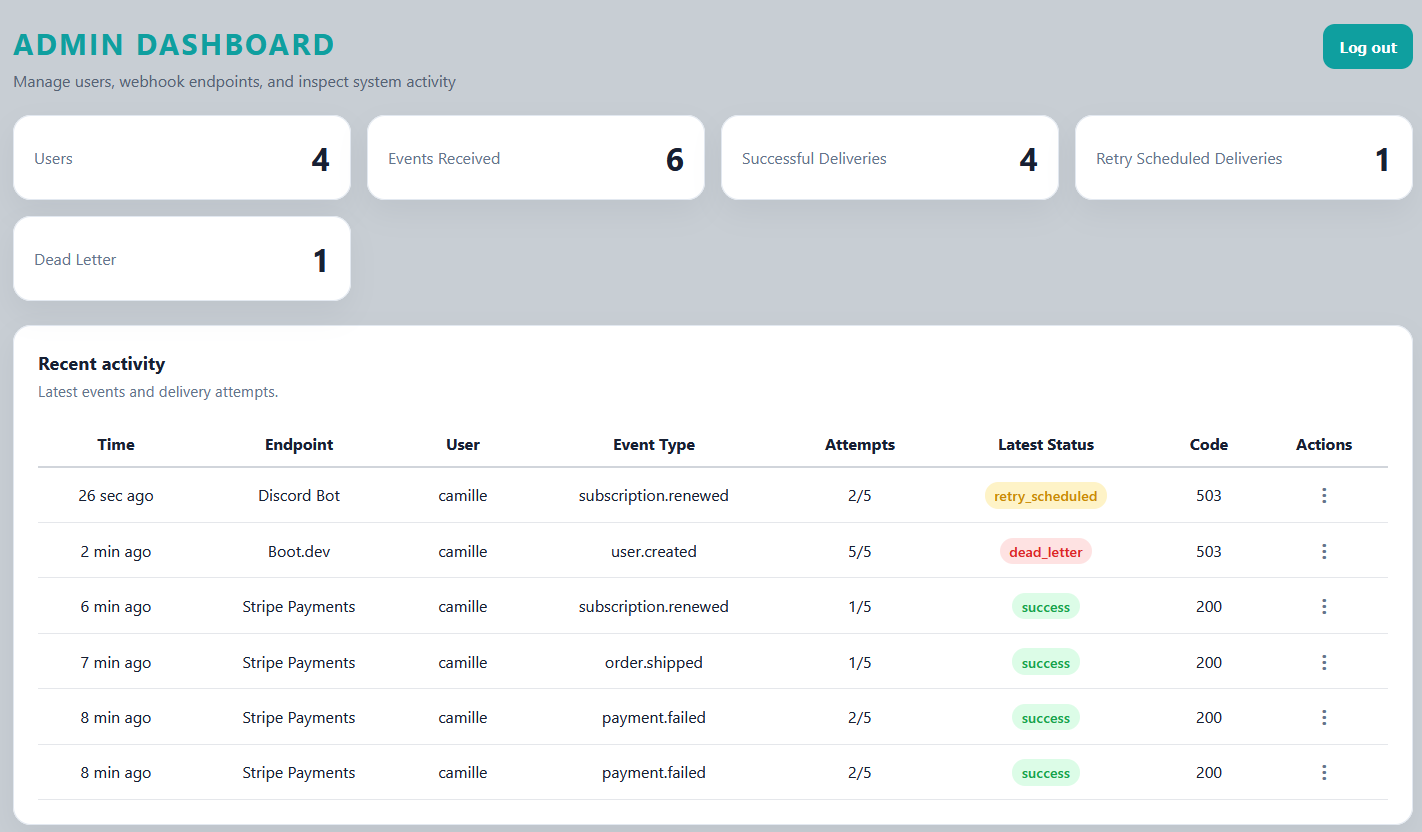
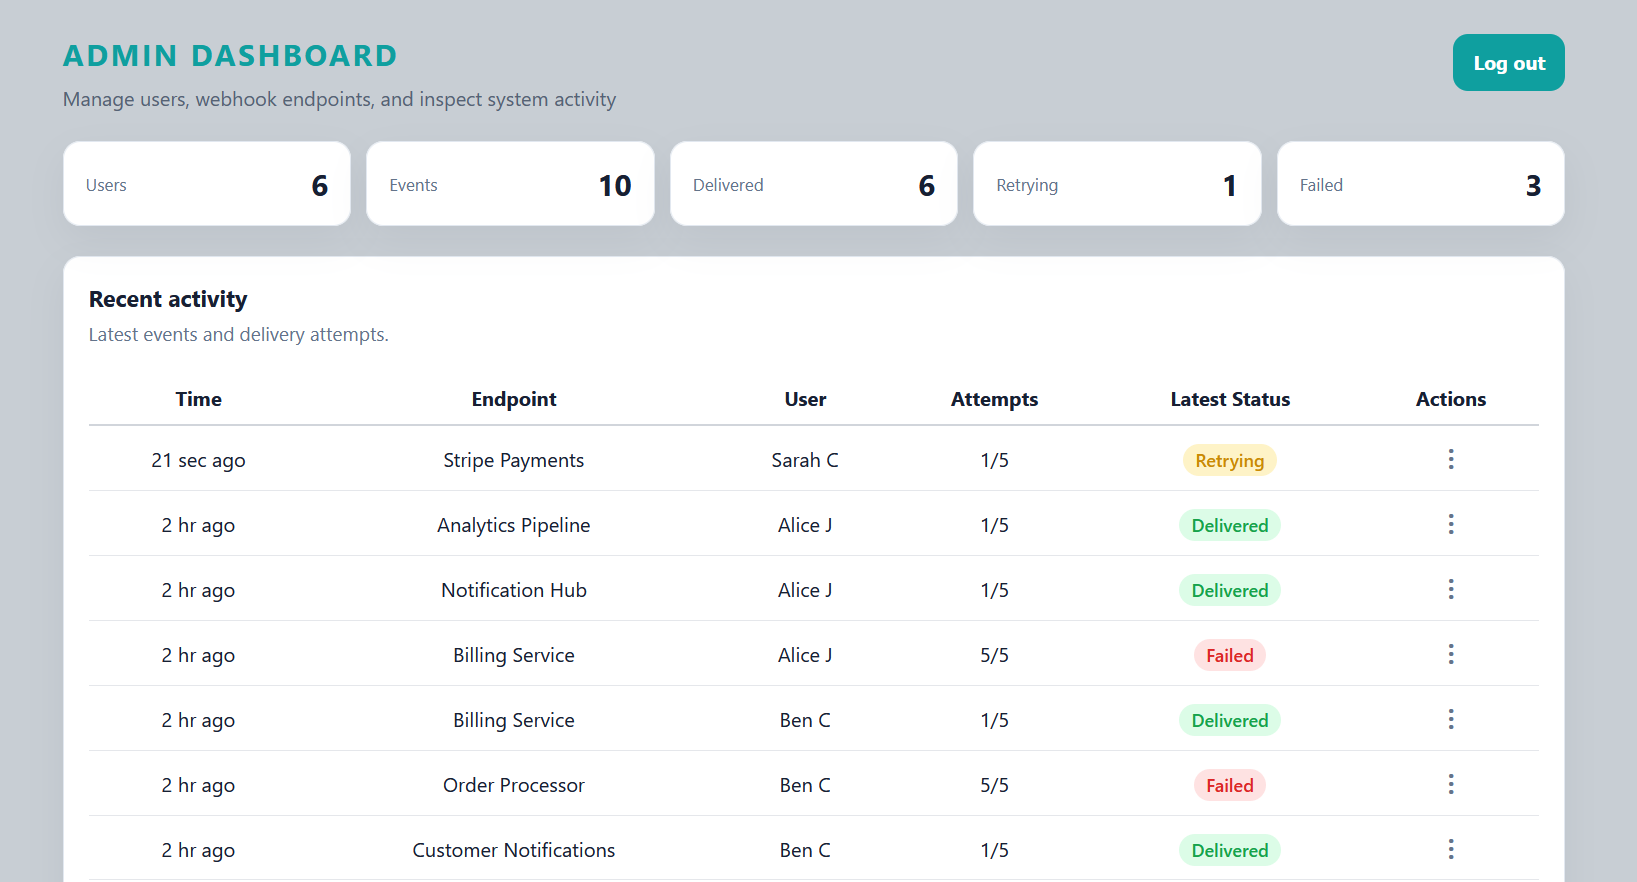
docs: update dashboard screenshots

diff --git a/README.md b/README.md
@@ -72,15 +72,23 @@ This project became an opportunity to combine several backend concepts into a si
 
 <table>
   <tr>
-    <td align="center">
+    <td align="center" width="33%">
       <strong>User Dashboard</strong><br>
       Manage webhook endpoints, monitor delivery metrics, and inspect recent activity.
+      <br><br>
       <img src="assets/user-dashboard.png" width="400">
     </td>
-    <td align="center">
+    <td align="center" width="33%">
       <strong>Admin Dashboard</strong><br>
-      Monitor users, endpoints, delivery outcomes, retry queues, and dead-letter events across the system.
-      <img src="assets/admin-dashboard.png" width="500">
+      Monitor users, endpoints, delivery outcomes, retry queues, and failed deliveries.
+      <br><br>
+      <img src="assets/admin-dashboard.png" width="400">
+    </td>
+    <td align="center" width="33%">
+      <strong>Management Tables</strong><br>
+      View registered users and webhook endpoints from the admin dashboard.
+      <br><br>
+      <img src="assets/endpoints-users.png" width="400">
     </td>
   </tr>
 </table>
